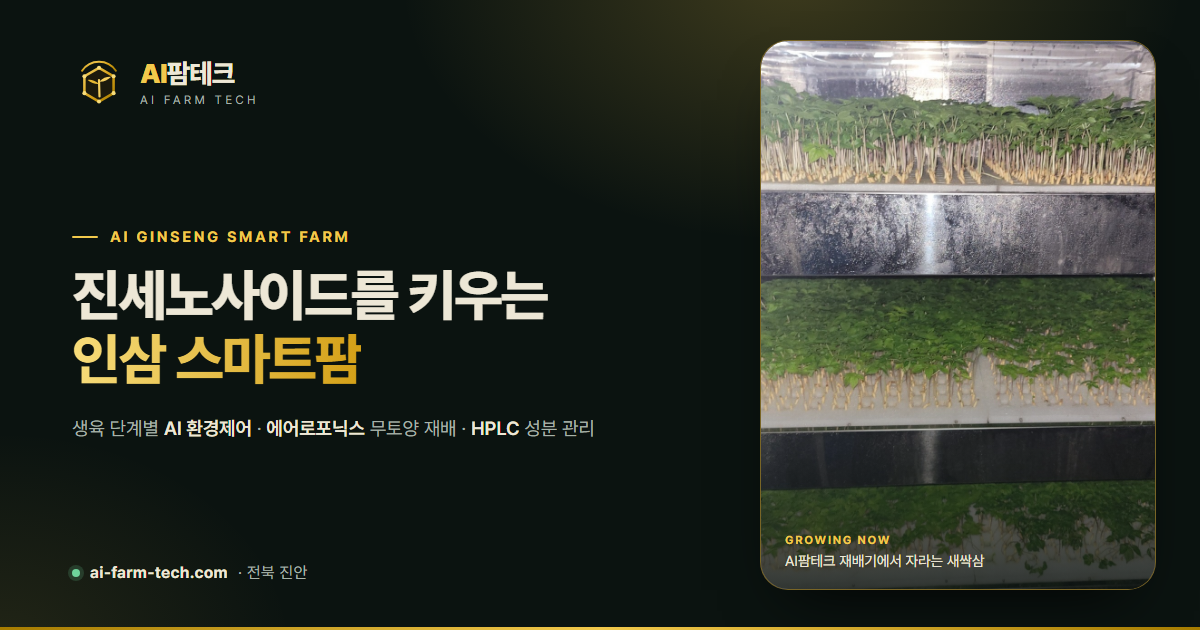
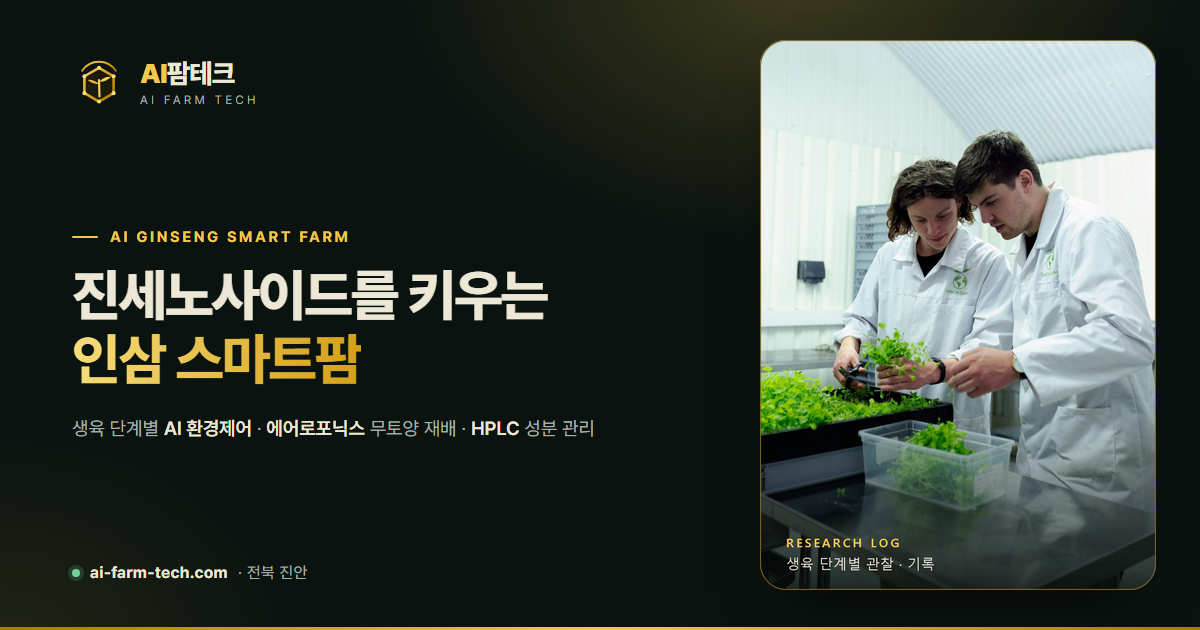
재배기 인삼 사진 내리기
- 회사소개 사진(farm-tray.jpg)과 예전 첫 화면 사진(hero-farm.jpg) 삭제
- 공유 이미지(og-image.png) 오른쪽 사진을 연구 현장 사진으로 교체
- 쓰지 않게 된 .intro-photo 스타일 정리

Changed region(s): [[0.6167, 0.0603, 0.9867, 0.9349]]

diff --git a/index.html b/index.html
@@ -269,10 +269,6 @@
           <p>인삼은 같은 밭에서도 해마다 품질이 다릅니다. 흙과 날씨, 병해에 따라 자라는 속도도, 뿌리에 쌓이는 진세노사이드의 양도 달라지기 때문입니다.</p>
           <p>AI팜테크는 소프트웨어·IoT·AI 기술로 이 편차를 줄이는 회사입니다. 재배 환경을 센서로 측정하고, 생육 단계에 맞춰 자동으로 제어하고, 결과를 성분 분석으로 확인합니다. 감이 아니라 기록으로 남는 인삼 농사를 만드는 것이 우리의 목표입니다.</p>
         </div>
-        <figure class="intro-photo reveal reveal-d2">
-          <img src="assets/img/farm-tray.jpg" alt="AI팜테크 재배기의 트레이에서 자라는 인삼" width="1400" height="924" loading="lazy">
-          <figcaption>전북 진안 AI팜테크 재배기 — 트레이에서 자라는 인삼 (2026)</figcaption>
-        </figure>
 
         <ul class="pillars">
           <li class="pillar reveal">

diff --git a/assets/css/style.css b/assets/css/style.css
@@ -254,14 +254,11 @@ button { font: inherit; color: inherit; }
   .facts li { padding: 22px 12px 24px; }
 }
 
-/* ---------- 회사소개 (가운데 정렬 + 사진) ---------- */
+/* ---------- 회사소개 (가운데 정렬) ---------- */
 .intro { text-align: center; }
 .intro .h2 { max-width: 820px; margin: 0 auto; }
 .intro-copy { max-width: 760px; margin: 22px auto 0; }
 .intro-copy p { font-size: clamp(17px, 1.5vw, 18.5px); color: #34403a; }
-.intro-photo { margin: clamp(36px, 5vw, 56px) auto 0; max-width: 980px; }
-.intro-photo img { width: 100%; height: auto; border-radius: var(--radius); box-shadow: var(--shadow); }
-.intro-photo figcaption { font-size: 14px; color: var(--muted); margin-top: 12px; }
 .pillars { display: grid; grid-template-columns: repeat(3, 1fr); gap: 16px; margin-top: clamp(40px, 6vw, 64px); text-align: left; }
 .pillar {
   background: #fff; border: 1px solid var(--line); border-radius: var(--radius);

diff --git a/assets/css/lab.css b/assets/css/lab.css
@@ -171,10 +171,6 @@ main > .section { counter-increment: sec; }
 .intro .h2 { margin: 0; max-width: none; }
 .intro-copy { max-width: none; margin: 28px 0 0; columns: 2; column-gap: clamp(32px, 6vw, 96px); }
 .intro-copy p { color: #35413c; break-inside: avoid; }
-.intro-photo { max-width: none; }
-.intro-photo img { border-radius: var(--radius-sm); box-shadow: none; }
-.intro-photo figcaption { font-family: var(--mono); font-size: 12.5px; }
-.intro-photo figcaption::before { content: "PHOTO — "; color: var(--green-text); }
 .pillar { border-radius: var(--radius); }
 .pillar .num {
   width: auto; height: auto; padding: 2px 8px; border-radius: 3px;
